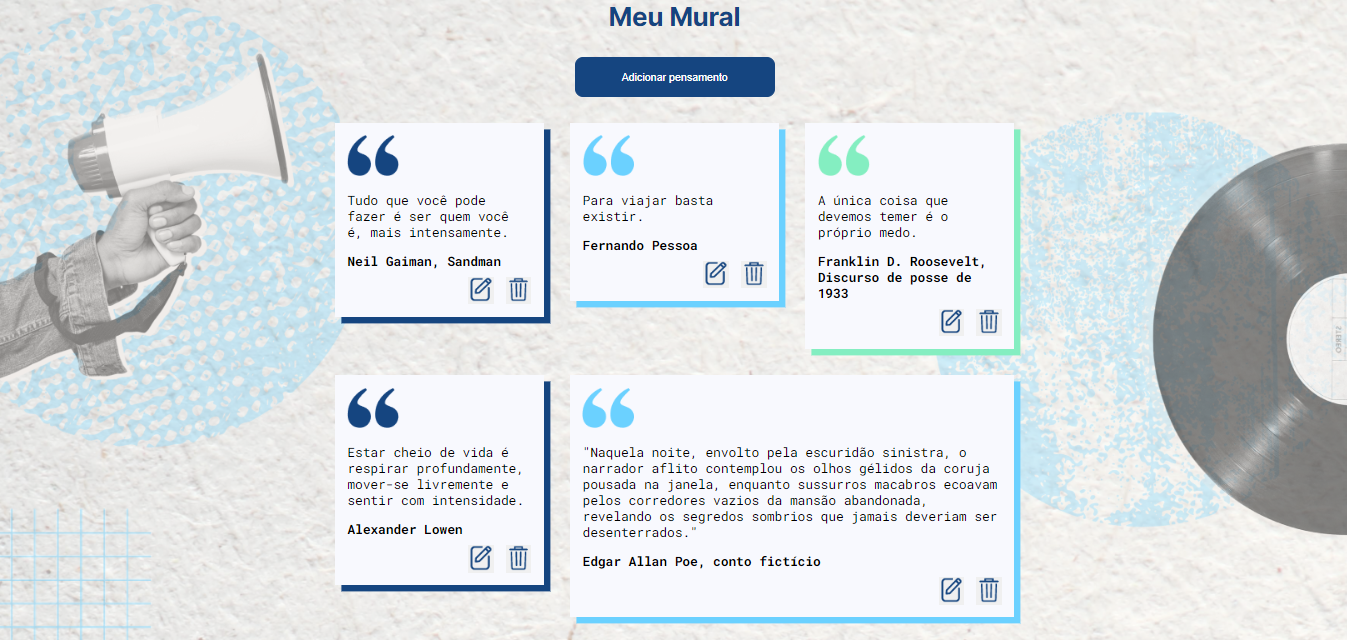
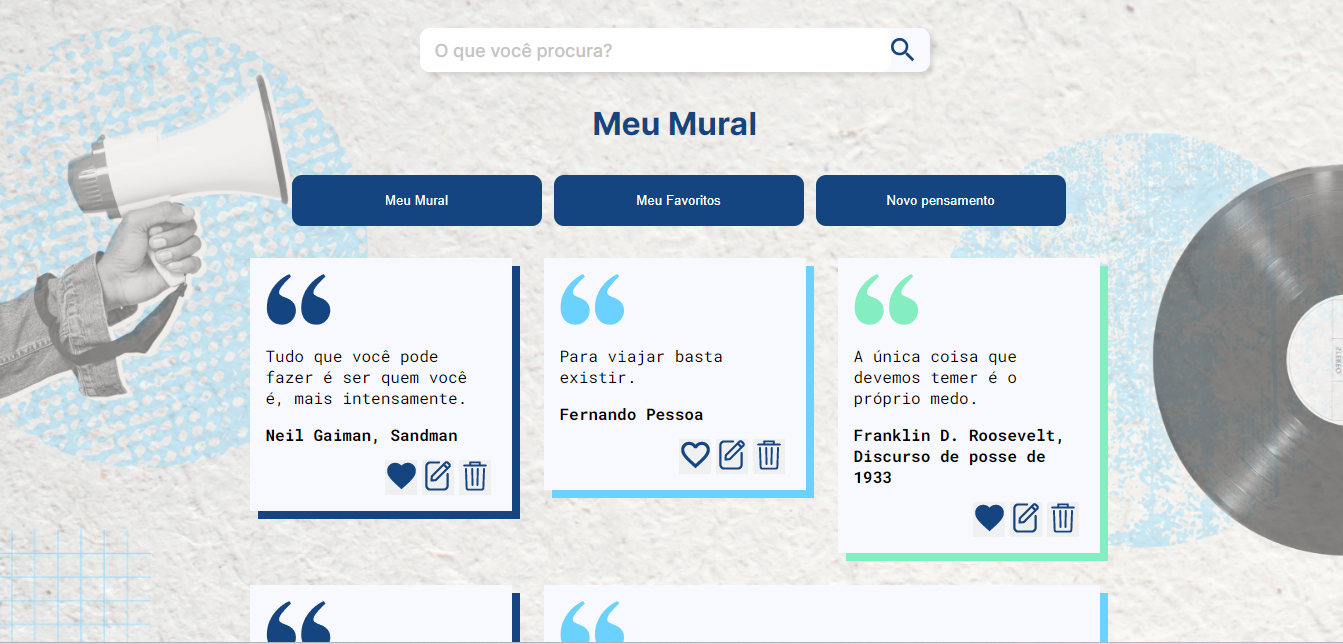
Update README

diff --git a/README.md b/README.md
@@ -1,13 +1,20 @@
 # Memoteca
 
-<p align="center">Projeto do curso Explorando os conceitos do <b>Angular</b> da <b>ALura</b>. Onde foi abordado os principais conceitos do framework, criando uma aplicação tipo bloco de notas para guardar trechos de músicas, citações de livros, pensamentos e melhores ideias. </p>
+<p align="center">Projeto do curso Criando uma aplicação <b>Angular CLI</b> da <b>ALura</b>. Onde foi abordado os principais conceitos do framework, criando uma aplicação tipo bloco de notas para guardar trechos de músicas, citações de livros, pensamentos e melhores ideias.</p>
 
+## Tópicos abordados durante esse projeto:
+* Criação do Projeto com angular CLI
+* Instalando json-server para simular uma API RESTful
+* Construindo a estrutura de um componente (Mural)
+* Adicionando Filtros na busca dos materiais
+* Persistência da lista de favoritos em LocalStorage
 
 <img src="./github/1_banner.png">
 <img src="./github/2_angular.png">
 <img src="./github/3_mural.png">
+<img src="./github/3a_mural.png">
+<img src="./github/4_favoritos.png">
 <img src="./github/4_localhost.png">
-
 
 ## Tecnologias utilizadas no projeto
 * Angular
